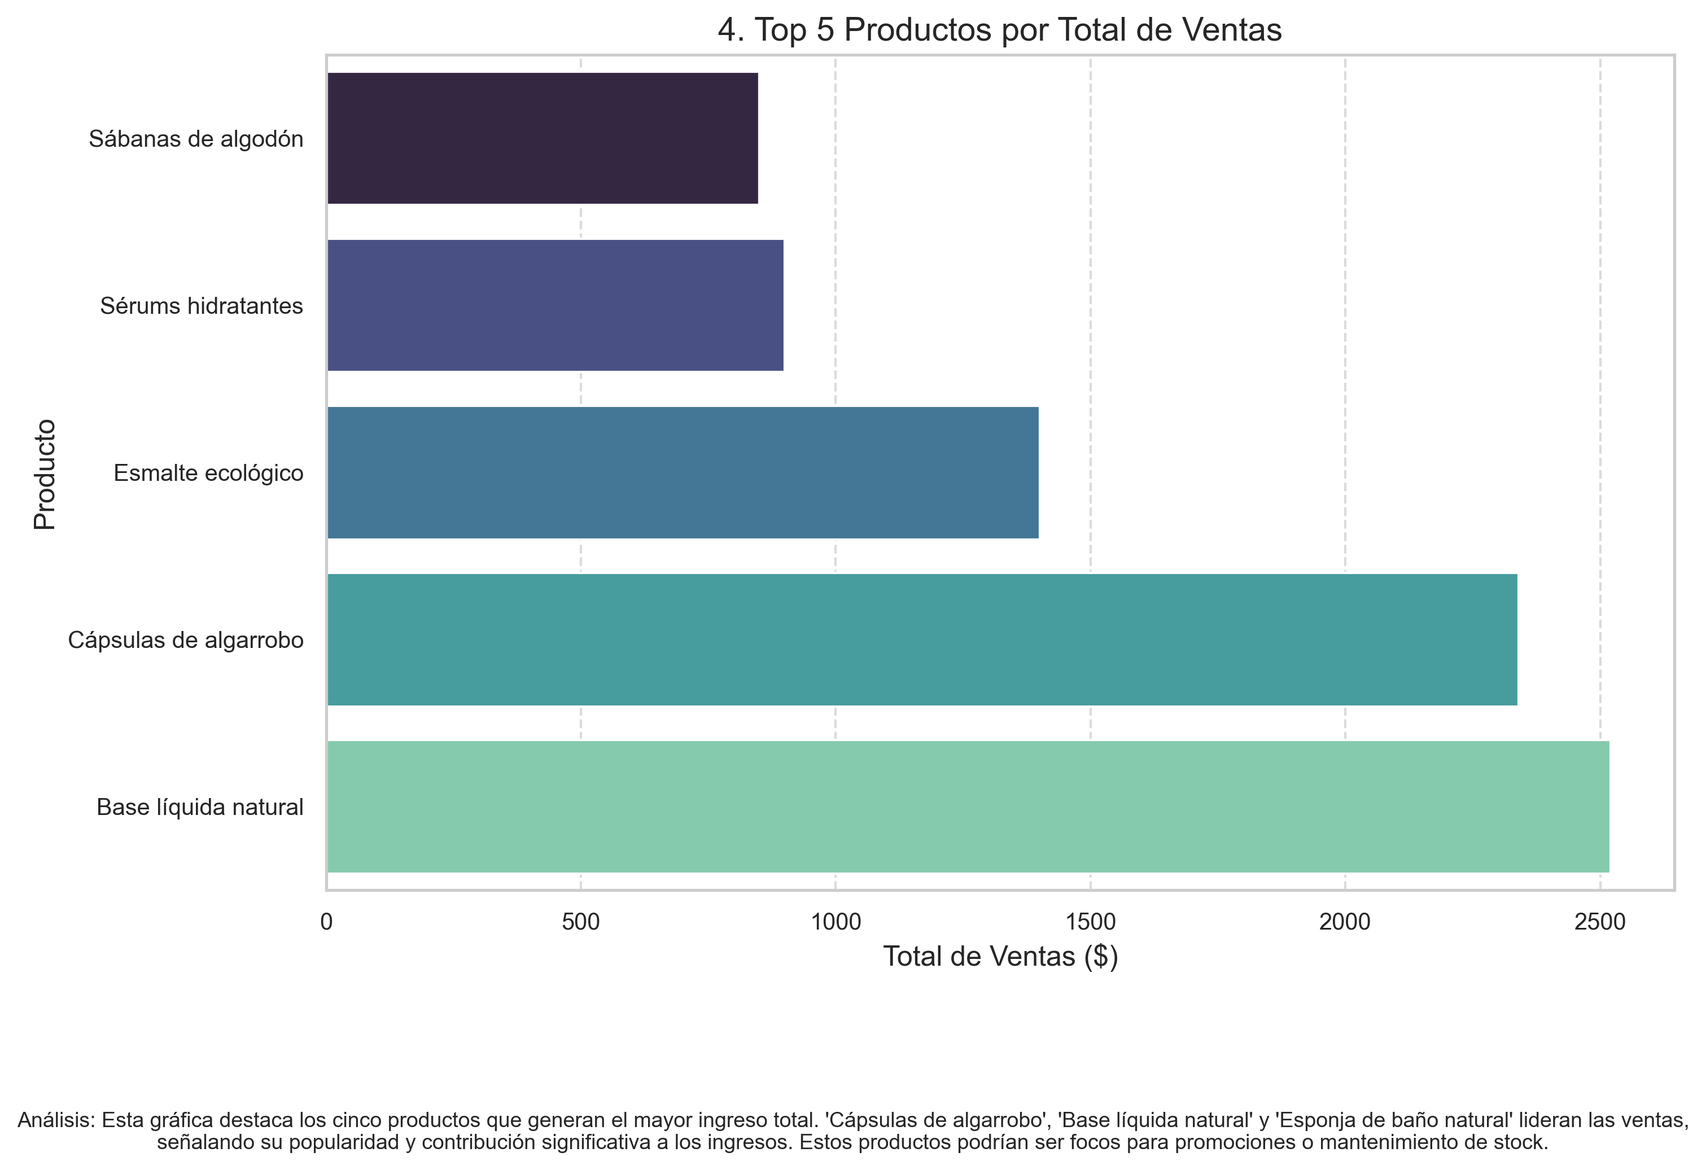
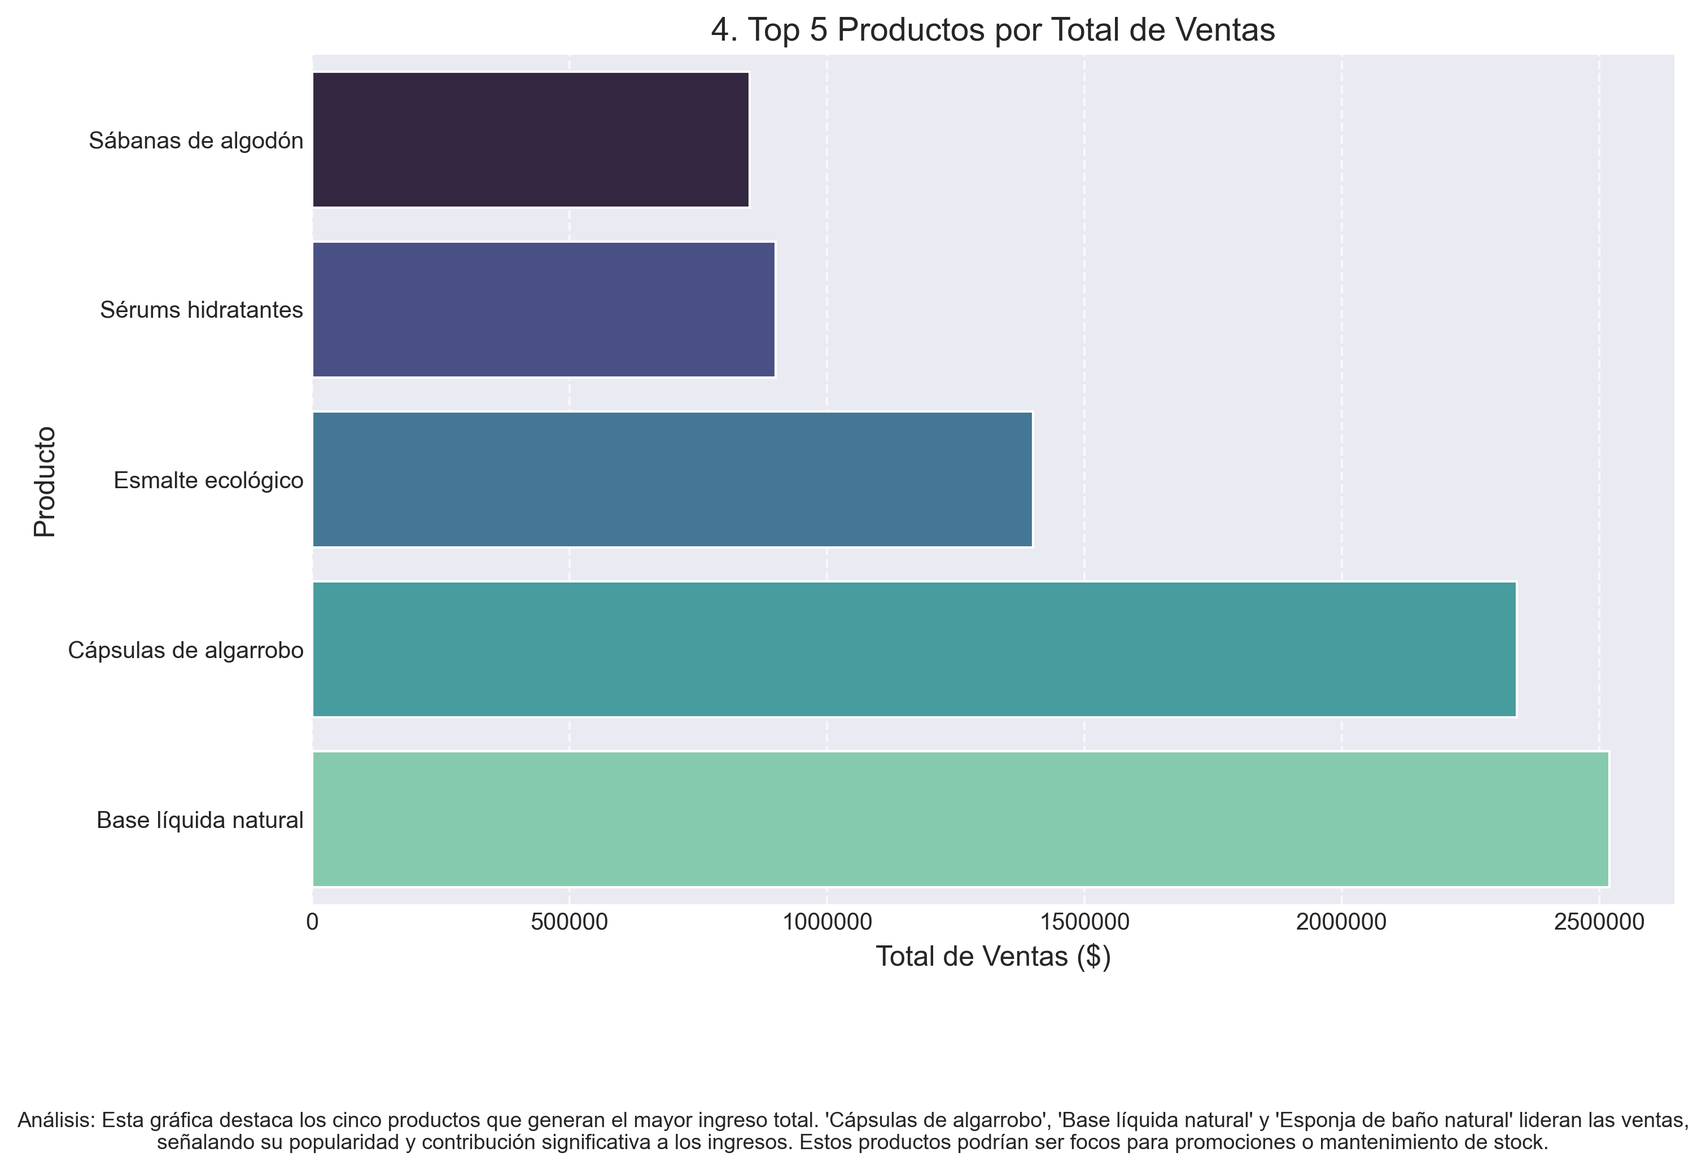
Update

Changed region(s): [[0.0311, 0.0, 0.9643, 0.8336], [0.0, 0.3705, 0.0311, 0.4631], [0.0622, 0.0926, 0.1244, 0.1235]]

diff --git a/end_grafico/main.py b/end_grafico/main.py
@@ -3,7 +3,7 @@ import seaborn as sns
 import matplotlib.pyplot as plt
 import numpy as np
 
-# --- Datos (los mismos que hemos estado usando) ---
+# --- Datos ---
 data = {
     'Categoría': [
         'Alimentos', 'Cuidado personal', 'Hogar', 'Cuidado personal', 'Cuidado personal',
@@ -31,161 +31,208 @@ data = {
         25, 9, 30, 45, 6, 7, 2, 1, 9, 45
     ],
     'Precio': [
-        10.000, 34.000, 17.000, 7.600, 6.500, 54.000, 32.000, 2.000, 22.000, 43.000,
-        21.000, 3.200, 4.000, 50.000, 45.000, 43.000, 21.000, 22.000, 6.700, 41.000,
-        45.000, 28.000, 4.900, 56.000, 9.800, 78.000, 56.000, 75.000, 10.000, 42.000,
-        98.000, 65.000, 6.500
+        10000, 34000, 17000, 7600, 6500, 54000, 32000, 2000, 22000, 43000,
+        21000, 3200, 4000, 50000, 45000, 43000, 21000, 22000, 6700, 41000,
+        45000, 28000, 4900, 56000, 9800, 78000, 56000, 75000, 10000, 42000,
+        98000, 65000, 6500
     ]
 }
 
+# Crear DataFrame y calcular 'Total_Venta'
 df = pd.DataFrame(data)
 df['Total_Venta'] = df['Cantidad'] * df['Precio']
 
-# --- Configuración de estilo y fuentes generales para gráficas individuales (se mueven fuera para que estén disponibles siempre) ---
-sns.set_theme(style="whitegrid", palette="viridis")
-plt.rcParams.update({'font.size': 10})
-plt.rcParams['axes.titlesize'] = 14
-plt.rcParams['axes.labelsize'] = 12
-plt.rcParams['xtick.labelsize'] = 10
-plt.rcParams['ytick.labelsize'] = 10
+# --- Configuración global de estilo para todas las gráficas ---
+def configure_plot_style():
+    """Configura el estilo general de Matplotlib y Seaborn para todas las gráficas."""
+    sns.set_theme(style="whitegrid", palette="viridis")
+    plt.rcParams.update({
+        'font.size': 10,
+        'axes.titlesize': 14,
+        'axes.labelsize': 12,
+        'xtick.labelsize': 10,
+        'ytick.labelsize': 10
+    })
+    plt.style.use('seaborn-v0_8-darkgrid') # Un estilo adicional que mejora la estética
+
+# --- Funciones para generar cada tipo de gráfica ---
+
+def plot_total_ventas_categoria(dataframe):
+    """
+    Genera y muestra un gráfico de barras del total de ventas por categoría.
+    Incluye un análisis descriptivo.
+    """
+    plt.figure(figsize=(10, 7))
+    total_ventas_categoria = dataframe.groupby('Categoría')['Total_Venta'].sum().sort_values(ascending=False)
+    sns.barplot(x=total_ventas_categoria.index, y=total_ventas_categoria.values)
+    plt.title('1. Total de Ventas por Categoría')
+    plt.xlabel('Categoría')
+    plt.ylabel('Total de Ventas ($)')
+    plt.ticklabel_format(style='plain', axis='y')
+    plt.xticks(rotation=45, ha='right')
+    plt.grid(axis='y', linestyle='--', alpha=0.7)
+    plt.figtext(0.5, 0.02,
+                "Análisis: Esta gráfica muestra la contribución de cada categoría al ingreso total. Se observa que 'Belleza' y 'Cuidado personal' son las categorías con mayores ventas, indicando su importancia en la facturación general de la empresa.",
+                fontsize=9, ha='center', va='bottom', wrap=True, transform=plt.gcf().transFigure)
+    plt.tight_layout(rect=[0, 0.15, 1, 1])
+    plt.savefig('grafica_1_ventas_categoria.png', dpi=300, bbox_inches='tight')
+    plt.show()
+
+def plot_cantidad_promedio_productos_categoria(dataframe):
+    """
+    Genera y muestra un gráfico de barras de la cantidad promedio de productos por categoría.
+    Incluye un análisis descriptivo.
+    """
+    plt.figure(figsize=(10, 7))
+    avg_cantidad_categoria = dataframe.groupby('Categoría')['Cantidad'].mean().sort_values(ascending=False)
+    sns.barplot(x=avg_cantidad_categoria.index, y=avg_cantidad_categoria.values)
+    plt.title('2. Cantidad Promedio de Productos por Categoría')
+    plt.xlabel('Categoría')
+    plt.ylabel('Cantidad Promedio')
+    plt.xticks(rotation=45, ha='right')
+    plt.grid(axis='y', linestyle='--', alpha=0.7)
+    plt.figtext(0.5, 0.02,
+                "Análisis: Aquí se visualiza la cantidad promedio de unidades vendidas por producto dentro de cada categoría. Las categorías 'Alimentos' y 'Belleza' muestran una alta cantidad promedio por transacción, lo que podría indicar compras más grandes o productos que se venden en mayores volúmenes por unidad.",
+                fontsize=9, ha='center', va='bottom', wrap=True, transform=plt.gcf().transFigure)
+    plt.tight_layout(rect=[0, 0.15, 1, 1])
+    plt.savefig('grafica_2_cantidad_promedio_categoria.png', dpi=300, bbox_inches='tight')
+    plt.show()
+
+def plot_distribucion_precios(dataframe):
+    """
+    Genera y muestra un histograma de la distribución de precios de los productos.
+    Incluye un análisis descriptivo.
+    """
+    plt.figure(figsize=(10, 7))
+    sns.histplot(dataframe['Precio'], kde=True, bins=10)
+    plt.title('3. Distribución de Precios de Productos')
+    plt.xlabel('Precio ($)')
+    plt.ylabel('Frecuencia')
+    plt.grid(axis='y', linestyle='--', alpha=0.7)
+    plt.figtext(0.5, 0.02,
+                "Análisis: Este histograma muestra la distribución de precios de los productos. Se observa que la mayoría de los productos se encuentran en el rango de precios más bajos (menos de $20,000), con una cola más larga hacia precios más altos, indicando la presencia de algunos productos de alto valor.",
+                fontsize=9, ha='center', va='bottom', wrap=True, transform=plt.gcf().transFigure)
+    plt.tight_layout(rect=[0, 0.15, 1, 1])
+    plt.savefig('grafica_3_distribucion_precios.png', dpi=300, bbox_inches='tight')
+    plt.show()
+
+def plot_top_5_productos_ventas(dataframe):
+    """
+    Genera y muestra un gráfico de barras de los top 5 productos por total de ventas.
+    Incluye un análisis descriptivo.
+    """
+    plt.figure(figsize=(10, 7))
+    top_5_productos_ventas = dataframe.groupby('Producto')['Total_Venta'].sum().nlargest(5).sort_values(ascending=True)
+    sns.barplot(x=top_5_productos_ventas.values, y=top_5_productos_ventas.index, palette='mako', hue=top_5_productos_ventas.index, legend=False)
+    plt.title('4. Top 5 Productos por Total de Ventas')
+    plt.xlabel('Total de Ventas ($)')
+    plt.ylabel('Producto')
+    plt.ticklabel_format(style='plain', axis='x')
+    plt.grid(axis='x', linestyle='--', alpha=0.7)
+    plt.figtext(0.5, 0.02,
+                "Análisis: Esta gráfica destaca los cinco productos que generan el mayor ingreso total. 'Cápsulas de algarrobo', 'Base líquida natural' y 'Esponja de baño natural' lideran las ventas, señalando su popularidad y contribución significativa a los ingresos. Estos productos podrían ser focos para promociones o mantenimiento de stock.",
+                fontsize=9, ha='center', va='bottom', wrap=True, transform=plt.gcf().transFigure)
+    plt.tight_layout(rect=[0, 0.15, 1, 1])
+    plt.savefig('grafica_4_top_5_productos.png', dpi=300, bbox_inches='tight')
+    plt.show()
+
+def plot_relacion_cantidad_precio_scatter(dataframe):
+    """
+    Genera y muestra un diagrama de dispersión de la relación entre cantidad y precio unitario.
+    Incluye un análisis descriptivo.
+    """
+    plt.figure(figsize=(10, 7))
+    sns.scatterplot(x='Precio', y='Cantidad', hue='Categoría', data=dataframe, s=100, alpha=0.7)
+    plt.title('5. Relación entre Cantidad y Precio Unitario')
+    plt.xlabel('Precio Unitario ($)')
+    plt.ylabel('Cantidad Vendida')
+    plt.ticklabel_format(style='plain', axis='x')
+    plt.legend(title='Categoría', bbox_to_anchor=(1.02, 1), loc='upper left', borderaxespad=0.)
+    plt.grid(True, linestyle='--', alpha=0.7)
+    plt.figtext(0.5, 0.02,
+                "Análisis: Este diagrama de dispersión explora si existe una correlación entre el precio unitario de un producto y la cantidad vendida. No parece haber una correlación lineal fuerte y clara, lo que sugiere que la cantidad comprada no está directamente dictada solo por el precio unitario, sino también por la categoría del producto o su necesidad.",
+                fontsize=9, ha='center', va='bottom', wrap=True, transform=plt.gcf().transFigure)
+    plt.tight_layout(rect=[0, 0.15, 1, 1])
+    plt.savefig('grafica_5_cantidad_precio_scatter.png', dpi=300, bbox_inches='tight')
+    plt.show()
+
+def plot_proporcion_productos_categoria(dataframe):
+    """
+    Genera y muestra un gráfico circular de la proporción de productos por categoría.
+    Incluye un análisis descriptivo.
+    """
+    plt.figure(figsize=(10, 7))
+    productos_por_categoria = dataframe['Categoría'].value_counts()
+    plt.pie(productos_por_categoria, labels=productos_por_categoria.index, autopct='%1.1f%%', startangle=90, textprops={'fontsize': 10})
+    plt.title('6. Proporción de Productos por Categoría')
+    plt.axis('equal') # Asegura que el círculo sea un círculo
+    plt.figtext(0.5, 0.02,
+                "Análisis: Este gráfico circular muestra la distribución porcentual de los productos listados por categoría. 'Cuidado personal' domina con la mayor proporción, indicando una amplia variedad de productos en esta sección, seguido por 'Hogar' y 'Belleza'. Esto resalta el enfoque del inventario en estas áreas.",
+                fontsize=9, ha='center', va='bottom', wrap=True, transform=plt.gcf().transFigure)
+    plt.tight_layout(rect=[0, 0.15, 1, 1])
+    plt.savefig('grafica_6_proporcion_categorias.png', dpi=300, bbox_inches='tight')
+    plt.show()
+
+# --- Diccionario de funciones de gráficos ---
+graph_functions = {
+    '1': plot_total_ventas_categoria,
+    '2': plot_cantidad_promedio_productos_categoria,
+    '3': plot_distribucion_precios,
+    '4': plot_top_5_productos_ventas,
+    '5': plot_relacion_cantidad_precio_scatter,
+    '6': plot_proporcion_productos_categoria,
+}
 
 # --- Menú principal de opciones ---
-while True:
-    print("\n--- Por favor, selecciona una opción ---")
-    print("1. Mostrar la tabla de datos original")
-    print("2. Ver gráficas de análisis de datos")
-    print("3. Salir del programa")
+def main_menu():
+    """Muestra el menú principal y gestiona las opciones del usuario."""
+    while True:
+        print("\n--- Por favor, selecciona una opción ---")
+        print("1. Mostrar la tabla de datos original")
+        print("2. Ver gráficas de análisis de datos")
+        print("3. Salir del programa")
 
-    main_choice = input("Ingresa el número de tu opción (1, 2 o 3): ")
+        main_choice = input("Ingresa el número de tu opción (1, 2 o 3): ")
 
-    if main_choice == '1':
-        # Opción 1: Mostrar la tabla de datos original
-        print("\nTabla de Datos Original con 'Total_Venta' calculado:")
-        print(df.to_string())
-        print("\n" + "="*80 + "\n")
-        input("Presiona Enter para continuar...")
-    elif main_choice == '2':
-        # Opción 2: Submenú para elegir una gráfica
-        while True:
-            print("\n--- Selecciona la gráfica que deseas ver ---")
-            print("1. Total de Ventas por Categoría")
-            print("2. Cantidad Promedio de Productos por Categoría")
-            print("3. Distribución de Precios de Productos")
-            print("4. Top 5 Productos por Total de Ventas")
-            print("5. Relación entre Cantidad y Precio Unitario (Scatter Plot)")
-            print("6. Proporción de Productos por Categoría (Pie Chart)")
-            print("7. Volver al menú principal")
+        if main_choice == '1':
+            print("\nTabla de Datos Original con 'Total_Venta' calculado:")
+            print(df.to_string())
+            print("\n" + "="*80 + "\n")
+            input("Presiona Enter para continuar...")
+        elif main_choice == '2':
+            graph_submenu()
+        elif main_choice == '3':
+            print("¡Hasta luego!, buena suerte ✅")
+            break
+        else:
+            print("Opción no válida. Por favor, ingresa 1, 2 o 3.")
 
-            graph_choice = input("Ingresa el número de la gráfica que deseas ver (1-7): ")
+# --- Submenú para elegir una gráfica ---
+def graph_submenu():
+    """Muestra el submenú de gráficas y gestiona la selección del usuario."""
+    while True:
+        print("\n--- Selecciona la gráfica que deseas ver ---")
+        print("1. Total de Ventas por Categoría")
+        print("2. Cantidad Promedio de Productos por Categoría")
+        print("3. Distribución de Precios de Productos")
+        print("4. Top 5 Productos por Total de Ventas")
+        print("5. Relación entre Cantidad y Precio Unitario (Scatter Plot)")
+        print("6. Proporción de Productos por Categoría (Pie Chart)")
+        print("7. Volver al menú principal")
 
-            if graph_choice == '1':
-                # Gráfica 1: Total de Ventas por Categoría
-                plt.figure(figsize=(10, 7))
-                total_ventas_categoria = df.groupby('Categoría')['Total_Venta'].sum().sort_values(ascending=False)
-                sns.barplot(x=total_ventas_categoria.index, y=total_ventas_categoria.values)
-                plt.title('1. Total de Ventas por Categoría')
-                plt.xlabel('Categoría')
-                plt.ylabel('Total de Ventas ($)')
-                plt.ticklabel_format(style='plain', axis='y')
-                plt.xticks(rotation=45, ha='right')
-                plt.grid(axis='y', linestyle='--', alpha=0.7)
-                plt.figtext(0.5, 0.02,
-                            "Análisis: Esta gráfica muestra la contribución de cada categoría al ingreso total. Se observa que 'Belleza' y 'Cuidado personal' son las categorías con mayores ventas, indicando su importancia en la facturación general de la empresa.",
-                            fontsize=9, ha='center', va='bottom', wrap=True, transform=plt.gcf().transFigure)
-                plt.tight_layout(rect=[0, 0.15, 1, 1])
-                plt.savefig('grafica_1_ventas_categoria.png', dpi=300, bbox_inches='tight')
-                plt.show()
-                input("Presiona Enter para continuar...")
-            elif graph_choice == '2':
-                # Gráfica 2: Cantidad Promedio de Productos por Categoría
-                plt.figure(figsize=(10, 7))
-                avg_cantidad_categoria = df.groupby('Categoría')['Cantidad'].mean().sort_values(ascending=False)
-                sns.barplot(x=avg_cantidad_categoria.index, y=avg_cantidad_categoria.values)
-                plt.title('2. Cantidad Promedio de Productos por Categoría')
-                plt.xlabel('Categoría')
-                plt.ylabel('Cantidad Promedio')
-                plt.xticks(rotation=45, ha='right')
-                plt.grid(axis='y', linestyle='--', alpha=0.7)
-                plt.figtext(0.5, 0.02,
-                            "Análisis: Aquí se visualiza la cantidad promedio de unidades vendidas por producto dentro de cada categoría. Las categorías 'Alimentos' y 'Belleza' muestran una alta cantidad promedio por transacción, lo que podría indicar compras más grandes o productos que se venden en mayores volúmenes por unidad.",
-                            fontsize=9, ha='center', va='bottom', wrap=True, transform=plt.gcf().transFigure)
-                plt.tight_layout(rect=[0, 0.15, 1, 1])
-                plt.savefig('grafica_2_cantidad_promedio_categoria.png', dpi=300, bbox_inches='tight')
-                plt.show()
-                input("Presiona Enter para continuar...")
-            elif graph_choice == '3':
-                # Gráfica 3: Distribución de Precios de Productos
-                plt.figure(figsize=(10, 7))
-                sns.histplot(df['Precio'], kde=True, bins=10)
-                plt.title('3. Distribución de Precios de Productos')
-                plt.xlabel('Precio ($)')
-                plt.ylabel('Frecuencia')
-                plt.grid(axis='y', linestyle='--', alpha=0.7)
-                plt.figtext(0.5, 0.02,
-                            "Análisis: Este histograma muestra la distribución de precios de los productos. Se observa que la mayoría de los productos se encuentran en el rango de precios más bajos (menos de $20,000), con una cola más larga hacia precios más altos, indicando la presencia de algunos productos de alto valor.",
-                            fontsize=9, ha='center', va='bottom', wrap=True, transform=plt.gcf().transFigure)
-                plt.tight_layout(rect=[0, 0.15, 1, 1])
-                plt.savefig('grafica_3_distribucion_precios.png', dpi=300, bbox_inches='tight')
-                plt.show()
-                input("Presiona Enter para continuar...")
-            elif graph_choice == '4':
-                # Gráfica 4: Top 5 Productos por Total de Ventas
-                plt.figure(figsize=(10, 7))
-                top_5_productos_ventas = df.groupby('Producto')['Total_Venta'].sum().nlargest(5).sort_values(ascending=True)
-                sns.barplot(x=top_5_productos_ventas.values, y=top_5_productos_ventas.index, palette='mako', hue=top_5_productos_ventas.index, legend=False)
-                plt.title('4. Top 5 Productos por Total de Ventas')
-                plt.xlabel('Total de Ventas ($)')
-                plt.ylabel('Producto')
-                plt.ticklabel_format(style='plain', axis='x')
-                plt.grid(axis='x', linestyle='--', alpha=0.7)
-                plt.figtext(0.5, 0.02,
-                            "Análisis: Esta gráfica destaca los cinco productos que generan el mayor ingreso total. 'Cápsulas de algarrobo', 'Base líquida natural' y 'Esponja de baño natural' lideran las ventas, señalando su popularidad y contribución significativa a los ingresos. Estos productos podrían ser focos para promociones o mantenimiento de stock.",
-                            fontsize=9, ha='center', va='bottom', wrap=True, transform=plt.gcf().transFigure)
-                plt.tight_layout(rect=[0, 0.15, 1, 1])
-                plt.savefig('grafica_4_top_5_productos.png', dpi=300, bbox_inches='tight')
-                plt.show()
-                input("Presiona Enter para continuar...")
-            elif graph_choice == '5':
-                # Gráfica 5: Relación entre Cantidad y Precio Unitario (Scatter Plot)
-                plt.figure(figsize=(10, 7))
-                sns.scatterplot(x='Precio', y='Cantidad', hue='Categoría', data=df, s=100, alpha=0.7)
-                plt.title('5. Relación entre Cantidad y Precio Unitario')
-                plt.xlabel('Precio Unitario ($)')
-                plt.ylabel('Cantidad Vendida')
-                plt.ticklabel_format(style='plain', axis='x')
-                plt.legend(title='Categoría', bbox_to_anchor=(1.02, 1), loc='upper left', borderaxespad=0.)
-                plt.grid(True, linestyle='--', alpha=0.7)
-                plt.figtext(0.5, 0.02,
-                            "Análisis: Este diagrama de dispersión explora si existe una correlación entre el precio unitario de un producto y la cantidad vendida. No parece haber una correlación lineal fuerte y clara, lo que sugiere que la cantidad comprada no está directamente dictada solo por el precio unitario, sino también por la categoría del producto o su necesidad.",
-                            fontsize=9, ha='center', va='bottom', wrap=True, transform=plt.gcf().transFigure)
-                plt.tight_layout(rect=[0, 0.15, 1, 1])
-                plt.savefig('grafica_5_cantidad_precio_scatter.png', dpi=300, bbox_inches='tight')
-                plt.show()
-                input("Presiona Enter para continuar...")
-            elif graph_choice == '6':
-                # Gráfica 6: Proporción de Productos por Categoría (Pie Chart)
-                plt.figure(figsize=(10, 7))
-                productos_por_categoria = df['Categoría'].value_counts()
-                plt.pie(productos_por_categoria, labels=productos_por_categoria.index, autopct='%1.1f%%', startangle=90, textprops={'fontsize': 10})
-                plt.title('6. Proporción de Productos por Categoría')
-                plt.axis('equal')
-                plt.figtext(0.5, 0.02,
-                            "Análisis: Este gráfico circular muestra la distribución porcentual de los productos listados por categoría. 'Cuidado personal' domina con la mayor proporción, indicando una amplia variedad de productos en esta sección, seguido por 'Hogar' y 'Belleza'. Esto resalta el enfoque del inventario en estas áreas.",
-                            fontsize=9, ha='center', va='bottom', wrap=True, transform=plt.gcf().transFigure)
-                plt.tight_layout(rect=[0, 0.15, 1, 1])
-                plt.savefig('grafica_6_proporcion_categorias.png', dpi=300, bbox_inches='tight')
-                plt.show()
-                input("Presiona Enter para continuar...")
-            elif graph_choice == '7':
-                # Volver al menú principal
-                print("Volviendo al menú principal...")
-                break # Sale del bucle del submenú de gráficas
-            else:
-                print("Opción de gráfica no válida. Por favor, ingresa un número del 1 al 7.")
-    elif main_choice == '3':
-        # Opción 3: Salir del programa
-        print("¡Hasta luego! ✅ ")
-        break
-    else:
-        # Mensaje de error para entradas inválidas en el menú principal
-        print("Opción no válida. Por favor, ingresa 1, 2 o 3.")
+        graph_choice = input("Ingresa el número de la gráfica que deseas ver (1-7): ")
+
+        if graph_choice in graph_functions:
+            # Llama a la función de gráfico correspondiente desde el diccionario
+            graph_functions[graph_choice](df)
+            input("Presiona Enter para continuar...")
+        elif graph_choice == '7':
+            print("Volviendo al menú principal...")
+            break
+        else:
+            print("Opción de gráfica no válida. Por favor, ingresa un número del 1 al 7.")
+
+# --- Ejecución principal del programa ---
+if __name__ == "__main__":
+    configure_plot_style()
+    main_menu()
